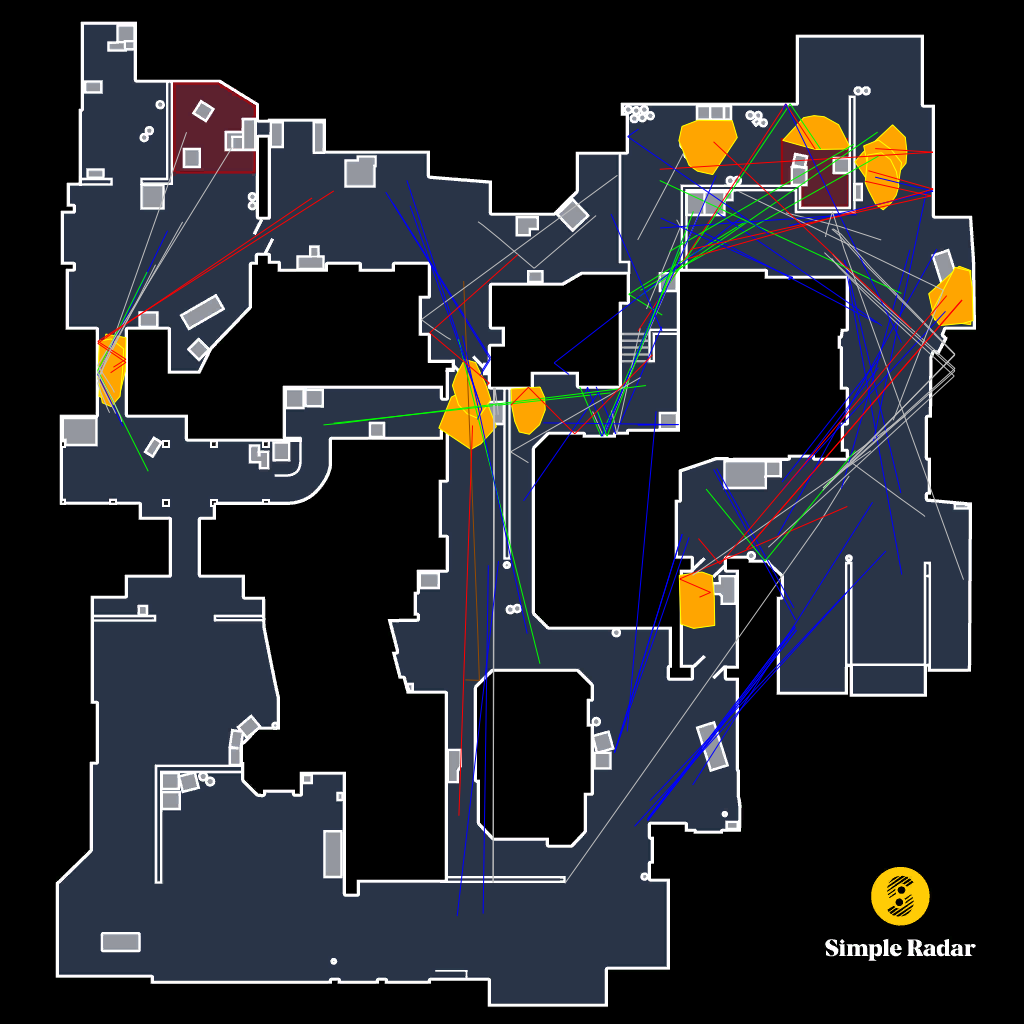
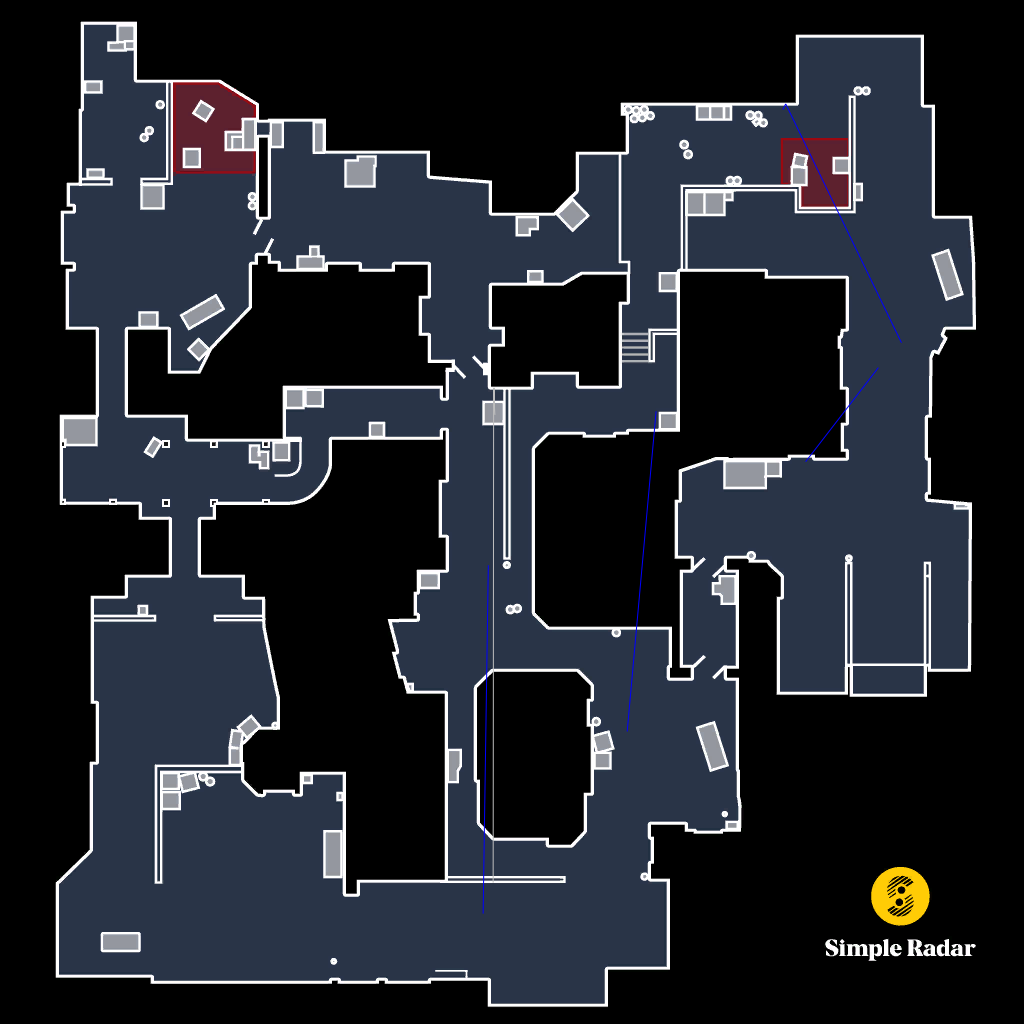
started new track

diff --git a/track/track.go b/track/track.go
@@ -1,0 +1,33 @@
+package main
+
+import (
+	"fmt"
+	"os"
+
+	dem "github.com/markus-wa/demoinfocs-golang/v2/pkg/demoinfocs"
+	events "github.com/markus-wa/demoinfocs-golang/v2/pkg/demoinfocs/events"
+)
+
+// Run: go run track.go
+
+func main() {
+	f, err := os.Open("..\\demo\\og-vs-sprout-dust2.dem")
+	if err != nil {
+		panic(err)
+	}
+	defer f.Close()
+
+	p := dem.NewParser(f)
+	defer p.Close()
+
+	p.RegisterEventHandler(func(e events.ItemPickup) {
+
+		fmt.Printf("%v, %v\n", e.Player, e.Weapon)
+	})
+
+	// Parse to end
+	err = p.ParseToEnd()
+	if err != nil {
+		panic(err)
+	}
+}

diff --git a/grenades/nade_trajectories.go b/grenades/nade_trajectories.go
@@ -87,7 +87,7 @@ func main() {
 		round++
 		// We only want the data from the first 5 rounds so the image is not too cluttered
 		// This is a very cheap way to do it. Won't work with demos that have match-restarts etc.
-		if round == 5 {
+		if round == 1 {
 			// Copy nade paths
 			for _, np := range nadeTrajectories {
 				nadeTrajectoriesFirst5Rounds = append(nadeTrajectoriesFirst5Rounds, np)
